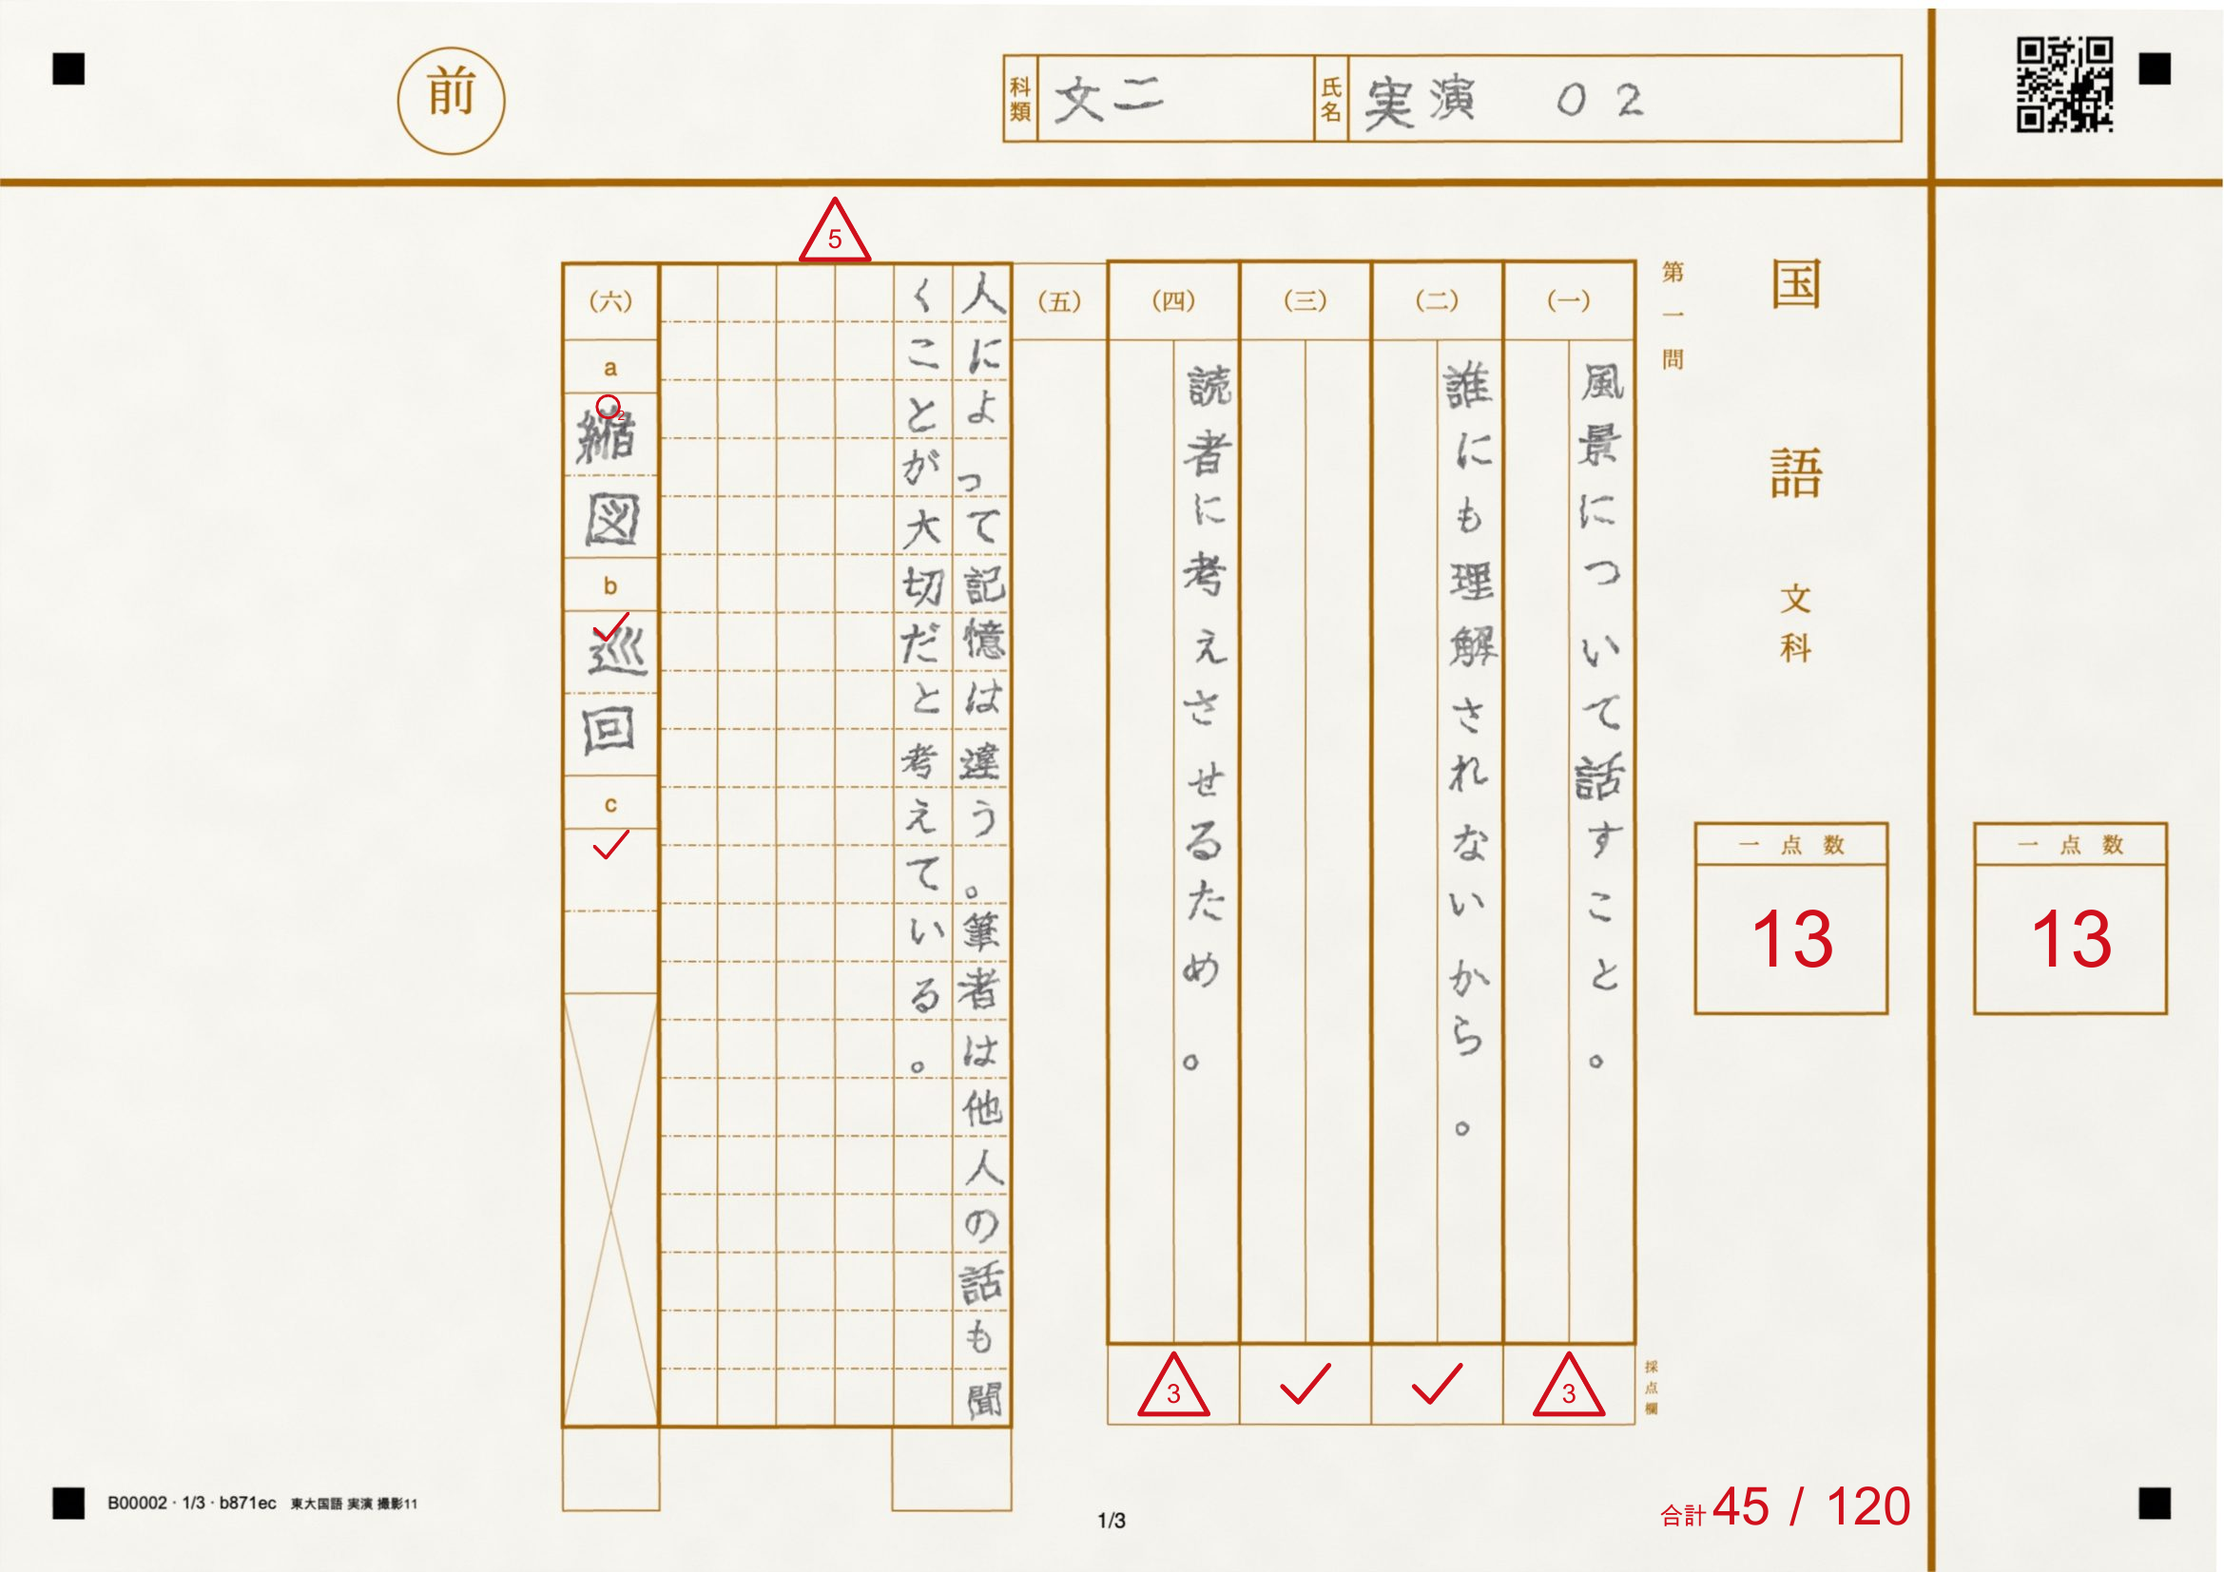
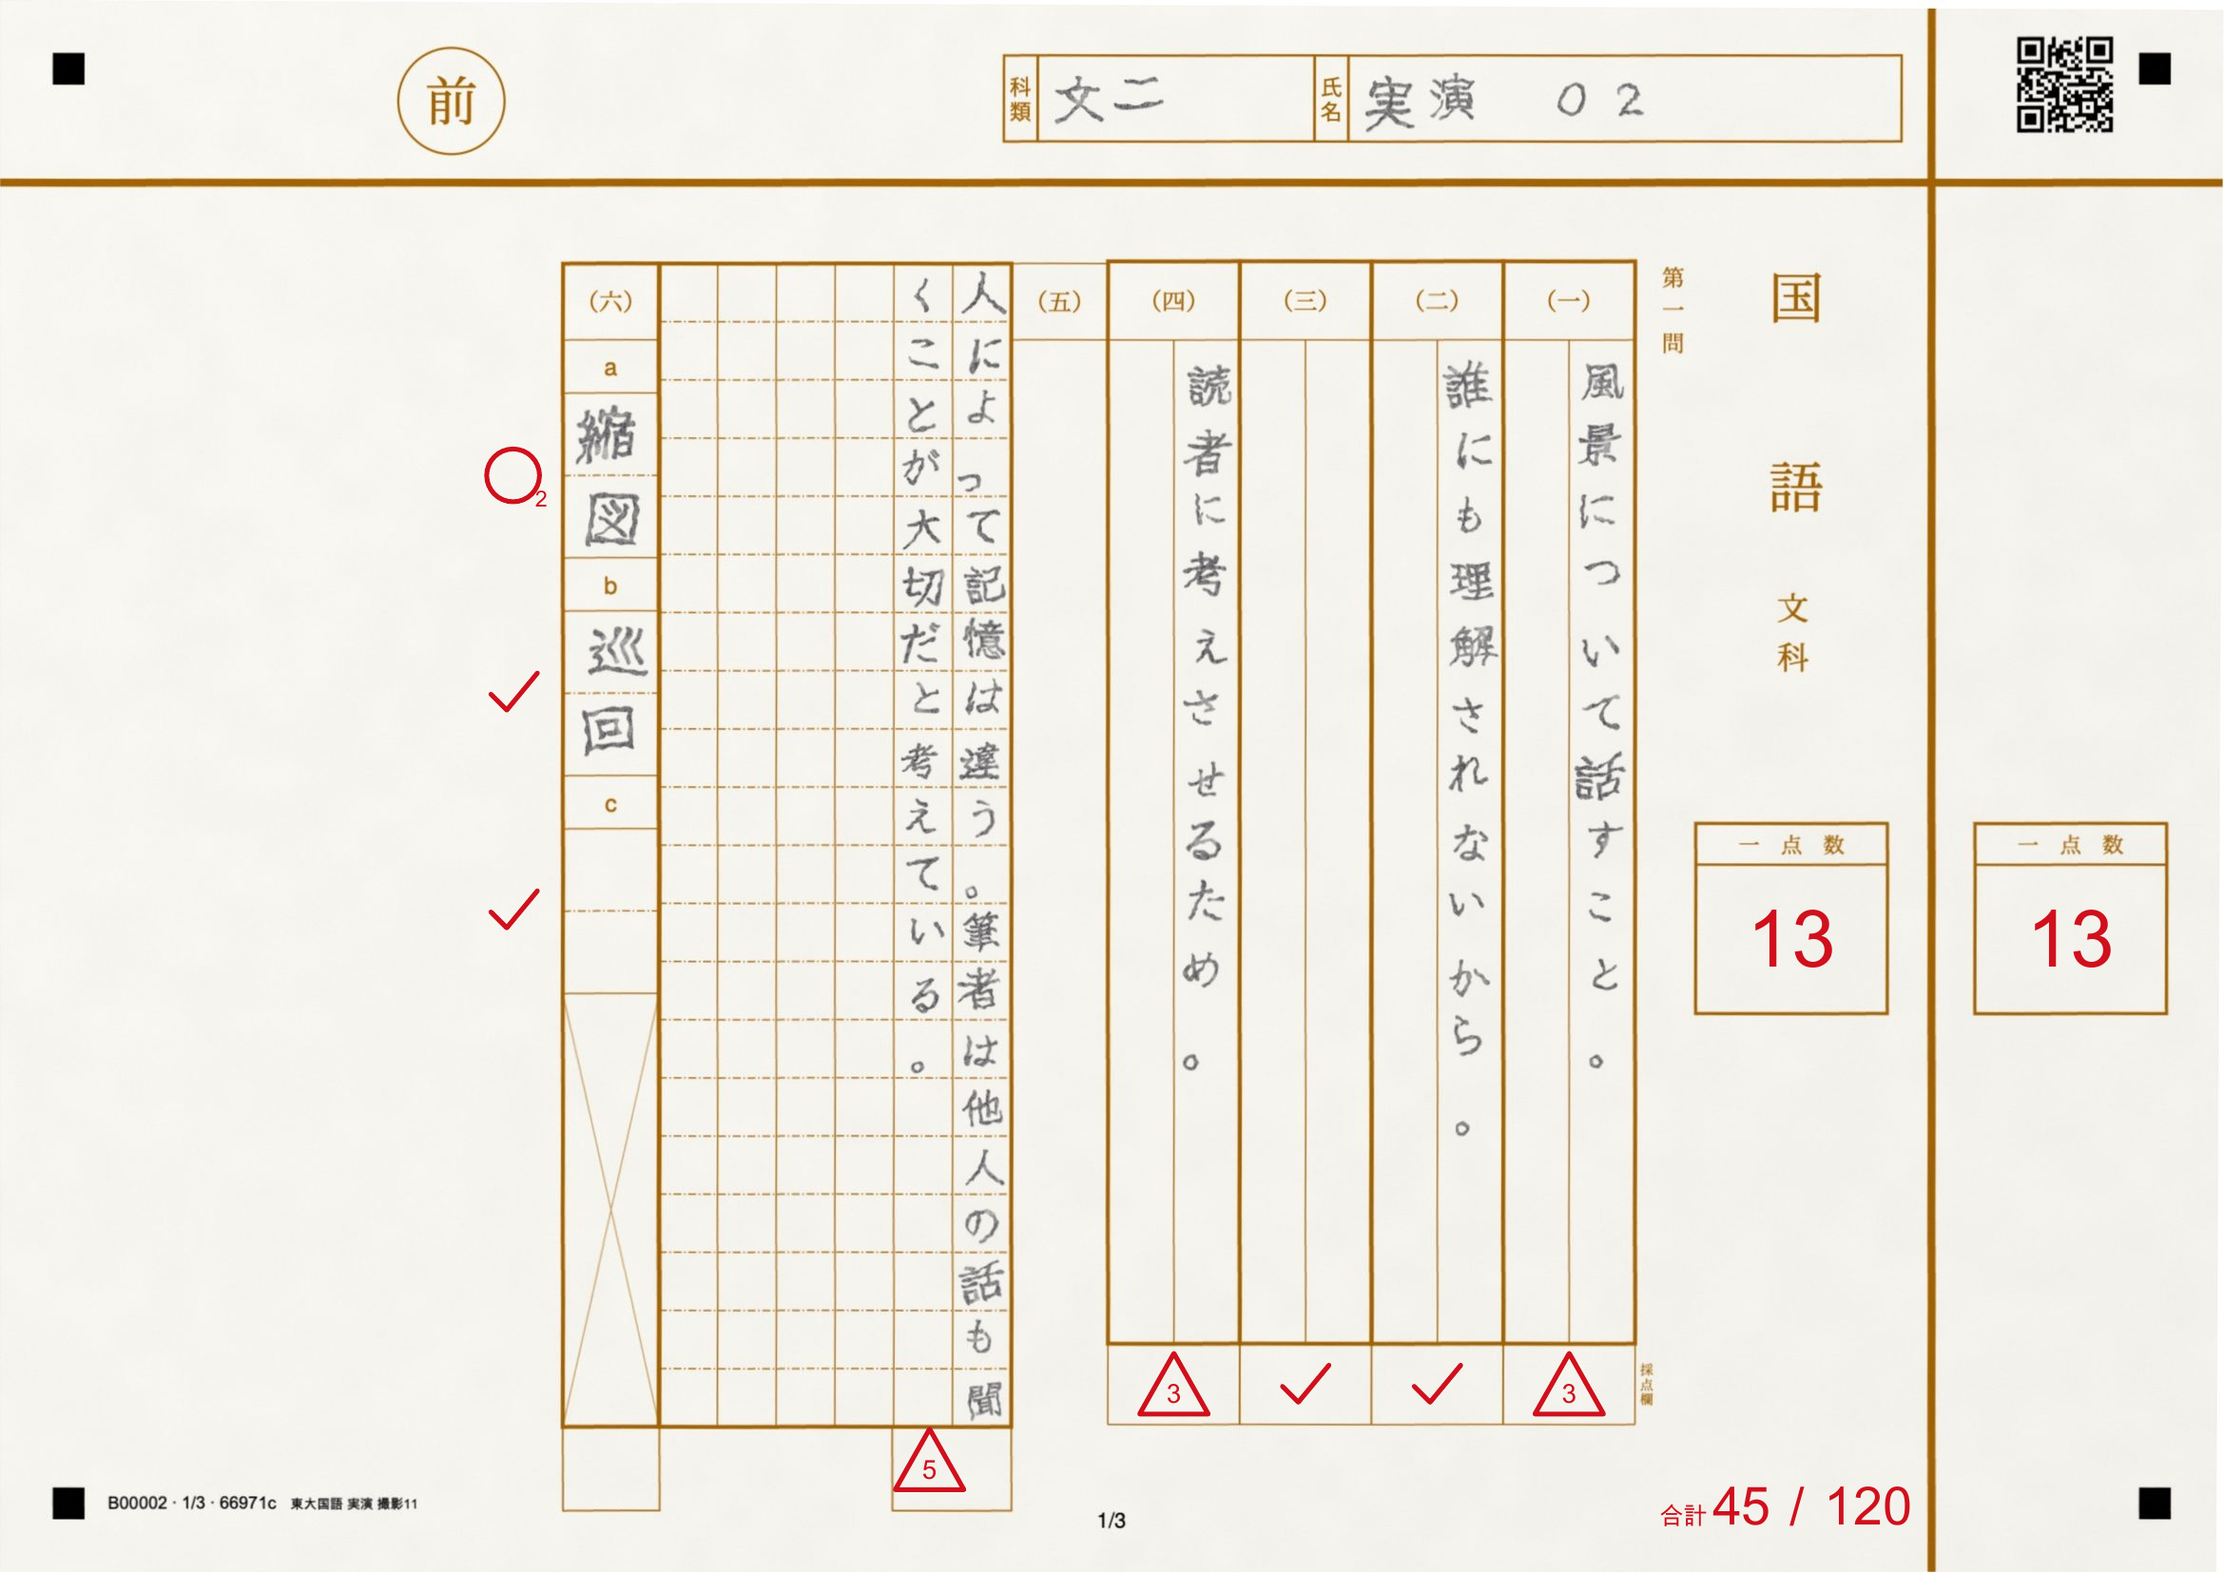
Record the correction round of the Todai Japanese demo
ChatGPT was asked, in the same chat, to move 第一問（五）'s grading
mark into its separate score box and to center 前 on page 1 of the
sheet, then to reissue the sheet and regrade. The article gains an
appendix with that prompt, the result and before/after crops; the
sheet and return-page figures are replaced with the corrected output.
ChatGPT実行記録.md records both prompts, the model and app versions,
the times and ChatGPT's own reports.

diff --git a/Qiita/チャッピーと東大国語の解答用紙の再現作成&採点/ChatGPT実行記録.md b/Qiita/チャッピーと東大国語の解答用紙の再現作成&採点/ChatGPT実行記録.md
@@ -1,0 +1,104 @@
+# ChatGPT 実行記録
+
+記事「チャッピーと東大国語の解答用紙の再現作成&採点」の実演で、ChatGPT に送ったプロンプトと、使ったモデル・アプリの記録です。2 回とも、同じプロジェクトの同じチャットに送りました。
+
+## 環境
+
+| 項目 | 内容 |
+| --- | --- |
+| ChatGPT | macOS 版デスクトップアプリ 26.1117.41037（Codex 0.171.0-alpha.13）の「Work」 |
+| モデル | GPT-6.2 Sol（`gpt-6.2-sol`） |
+| 思考量 | 軽（`low`） |
+| 権限 | フルアクセス |
+| プラグイン | Scoring64 0.3.0（make-sheet と grade のスキル）。ChatGPT は PDF のスキルも使った |
+| Scoring64 | 1.3.1（同じ Mac で動かし、127.0.0.1 で開く） |
+| ブラウザ | Google Chrome 158.0.8127.38。ChatGPT が新しいウインドウを開いて操作した |
+| OS | macOS 27.2.1 |
+| プロジェクト | 新しく作ったプロジェクト。ソースのフォルダには `用紙見本.pdf` と `手書き答案.swift` だけを入れた |
+
+## プロンプトの履歴
+
+| 回 | 送った日時 | プロンプト | かかった時間 | ツールの呼び出し | 画面操作（自己申告） | トークン |
+| --- | --- | --- | --- | --- | --- | --- |
+| 1 | 2026-11-25 02:40 | `プロンプト.txt` | 36 分 51 秒 | Chrome 操作 147 回・コマンド 29 回 | 約 1,000 回 | 入力 1,925 万（うちキャッシュ 1,906 万）・出力 2.3 万 |
+| 2 | 2026-11-25 10:37 | `修正プロンプト.txt` | 16 分 18 秒 | Chrome 操作 81 回・コマンド 15 回 | 約 880 回 | 入力 2,042 万（うちキャッシュ 2,015 万）・出力 1.8 万 |
+
+時刻は日本時間です。かかった時間・ツールの呼び出し・トークンは、ChatGPT アプリが Mac に残すログから数えました。「Chrome 操作」は Chrome を動かすスクリプトを 1 回実行した数で、1 回に複数のクリックや入力が入ります。画面操作の回数は ChatGPT の自己申告です。
+
+### 1 回目：用紙を組んで採点する
+
+`プロンプト.txt`（記事の「プロンプト全文」と同じ）を送りました。途中の報告は次のとおりです。
+
+- 02:40　Scoring64の make-sheet と grade、それにPDFのスキルを使います。まず見本の線を座標で読み取り、部品との対応表を作ります。
+- 02:43　見本の線と曲線を334区間に分け、部品との対応を表にしました。第一問（一）の試作PDFでは、見出し線・縦罫・外枠・採点欄の座標が見本と一致しました。
+- 02:57　第1ページは、見本と完成版PDFの両方向で座標を照合し、0.5mm以上ずれた線や片方だけにある線がないことを確認しました。第2ページでは、第二問（一）の採点欄にある点線と、第三問の短い解答行を見本に合わせています。
+- 03:07　3ページとも座標照合を通過し、線幅と破線パターンの件数も見本と一致しました。第3ページでは右側の点数欄にあった0.5mmの差を修正しました。採点対象は24問、合計120点です。
+- 03:10　手書き風の答案を2人分作り、PDFを開いて全6ページの文字が欄内に収まり、読めることを確認しました。スクリプトの検査でも枠外の文字は0字で、6ページすべてのQRコードを読み取れました。
+- 03:14　「出力」で2人とも採点済みと確認しました。実演 01は104点、実演 02は45点です。返却用ZIPを作成し、実演 01の返却PDFを開きます。
+- 03:16　（ブラウザ操作の完了表示「返却用PDFをChromeで表示しました」）
+
+最後の報告（原文。ファイルへのリンクはファイル名に置き換えました）：
+
+> Scoring64に新規試験「東大国語 実演 撮影11」を作り、**用紙作成から採点・返却まで完了しました。** Chromeの新しいウインドウに、実演 01の返却用PDFを開いてあります。
+>
+> #### 用紙と座標照合
+>
+> 白紙の「東大形式」から、A4横・茶・3ページの用紙を部品だけで組みました。各ページをPDFで保存して見本と双方向に照合し、最終版では**全334区間で片方だけにある線や0.5mm以上のずれは0件**でした。線幅と破線パターンも一致しました。
+>
+> - 見本の線と部品の対応表（`見本_線と部品の対応.csv`）
+> - 照合済み解答用紙（`照合済み解答用紙.pdf`）
+> - 発行した印刷用PDF・2人分（`印刷用_2人分.pdf`）
+>
+> #### 答案と採点
+>
+> 手書き風答案を全6ページ開き、文字が読めて欄内に収まっていることを確認してから取り込みました。架空の模範解答を基準に、要点がそろえば満点、一部が合えば部分点、誤答と空欄は0点としました。24問×2人の**48件すべてを採点**し、「出力」画面とZIP内のCSVで合計点を確認しました。
+>
+> | 答案 | 得点 |
+> |---|---:|
+> | 実演 01・全欄記入（`答案_01.pdf`） | **104 / 120** |
+> | 実演 02・空欄と誤答あり（`答案_02.pdf`） | **45 / 120** |
+>
+> 返却用ZIP（`返却用.zip`） · 実演 01の返却用PDF（`実演01_返却用.pdf`）
+>
+> #### 実演の記録
+>
+> - **所要時間は約36分、画面操作は約1,000回**です。クリック、キー入力、貼り付けをそれぞれ1回として概算しました。
+> - **スキルの説明と画面の違い**は、印刷用PDFと返却ZIPが生成後に別のリンクから保存する形だったことと、部分点を数字キーで直接入力できたことです。10点配点の欄では、数字キーで入力ダイアログが開き、Enterで確定しました。
+> - **やり直した箇所**は、縦書き見出しの列間隔、第3ページ右の点数欄の幅、ファイル選択画面での移動先入力です。採点中に満点キーが1回反映されなかったため、対象を確認して画面のボタンから採点しました。
+
+### 2 回目：仕上がりを見て直させる
+
+1 回目の返却用 PDF で第一問（五）の採点記号が解答欄の外に出ていたことと、用紙 1 ページ目の「前」が丸の中心より約 1.5mm 上にあったことを直させるため、`修正プロンプト.txt`（記事の追記と同じ）を送りました。途中の報告は次のとおりです。
+
+- 10:38　前回と同じ make-sheet・grade・PDFスキルで、用紙と返却PDFを照合します。修正後の用紙は同じ試験で発行し、新しい答案を作って前回の配点と採点結果を再現します。
+- 10:43　用紙PDFを再計測し、第1ページの「前」を1.4mm下げて、見本および第2・3ページと同じ高さに合わせました。大問名なども座標で補正し、全ページの罫線は引き続き見本と一致しています。
+- 10:50　第2版の答案だけを採点し、前回と同じ104点・45点になりました。ドラッグした記号の位置が画面を開き直すと戻ったため、矢印キーで位置を設定し直しました。（五）は指定の右側の四角に入りました。（六）は移動後の記号が左下の小枠に3つ収まらないため、同じページの左側の「一点数」枠に並べました。
+- 10:54　（ブラウザ操作の完了表示「修正後の返却PDFを表示しました」）
+
+最後の報告（原文。ファイルへのリンクはファイル名に置き換えました）：
+
+> 同じ試験で用紙を**第2版**として発行し、新しいQRコードの答案2人分を作成・取り込み・採点しました。48件の得点は前回と一致し、実演 01は**104 / 120点**、実演 02は**45 / 120点**です。Chromeには、修正箇所が見える実演 01の答案1ページ目を開いてあります。
+>
+> #### 修正と確認
+>
+> - **採点記号**　第一問（五）の○と10点を、解答欄の下にある右側の四角へ移しました。（六）の3記号は左下の小枠に収まらなかったため、a・b・cそれぞれの解答のすぐ左に配置しました。返却PDFの全3答案ページで、記号が見出しや答案の文字に重なっていないことを確認しました。
+> - **「前」の位置**　第1ページの文字を1.4mm下げ、見本の位置に合わせました。大問名や「採点欄」なども座標を照合して補正しました。第2ページの一部の小問番号では、括弧の中心位置に約0.9mmの差が残っています。全ページの罫線は0.5mm未満で一致しています。
+>
+> #### 保存先
+>
+> 成果物は `実演出力_修正後` に保存し、元の `実演出力` はそのまま残しました。
+>
+> - 修正済み用紙（`照合済み解答用紙.pdf`） · 印刷用PDF・2人分（`印刷用_2人分.pdf`）
+> - 返却用ZIP（`返却用.zip`） · 実演 01の返却PDF（`実演01_返却用.pdf`）
+>
+> 旧版の答案6ページはScoring64で取込対象から除外しました。ZIP内の返却PDFと成績集計は新しい2人分です。Scoring64の出力仕様により、CSVには旧版2冊の行も「未提出・合計空欄」として残り、設問別の旧得点が表示されます。
+>
+> #### 作業記録
+>
+> **約16分、画面操作は約880回**でした。ドラッグした位置が再表示時に戻ったため、矢印キーで設定し直しました。（六）の記号は、最初のZIPで大問の小計と重なることが分かったため、各解答の左へ移してZIPを再作成しました。
+
+## 補足
+
+- 1 回目を送る前に、作業フォルダとプロジェクトを新しく作り、それまでの試し撮りの試験は Scoring64 でアーカイブしました。
+- 配点の合計は、東大文科の国語の満点 120 点に合わせました。大問ごとの点は予備校の予想、小問ごとの点は仮です。この前の試し撮りでは合計を 130 点にしていたので、直して撮り直しました。
+- 動画は 1 回目だけを撮ったものです。2 回目は撮っていません。

diff --git a/Qiita/チャッピーと東大国語の解答用紙の再現作成&採点/README.md b/Qiita/チャッピーと東大国語の解答用紙の再現作成&採点/README.md
@@ -8,10 +8,12 @@ GitHub上の公開先: <https://github.com/KKTeX/Publicated-Files/tree/main/Qiit
 
 - `qiita-todai-kokugo-scoring64.md`: 記事の原稿
 - `プロンプト.txt`: ChatGPT に送ったプロンプト全文
+- `修正プロンプト.txt`: 仕上がりを見て直させた 2 回目のプロンプト（記事の追記）
+- `ChatGPT実行記録.md`: 2 回のプロンプトの履歴、使ったモデル・アプリのバージョン、かかった時間、ChatGPT の報告
 - `用紙見本.pdf`: 見本の用紙（A4 横・3 ページ）。作業フォルダに入れて使う
 - `手書き答案.swift`: 発行した印刷用 PDF に手書き風の答案を書き込み、スキャン風の答案 PDF にするスクリプト。作業フォルダに入れて使う
 - `解答例.json`: `手書き答案.swift` に渡す解答の例（2 人分）
-- `figures/`: 記事の画像と実演動画 `demo.mp4`（16:9・約 44 秒・無音）
+- `figures/`: 記事の画像と実演動画 `demo.mp4`（16:9・約 44 秒・無音。1 回目だけを撮ったもの）。`fix-marks.png` と `fix-mae.png` は 2 回目で直す前と直したあと
 
 ## 手書き答案.swift
 
